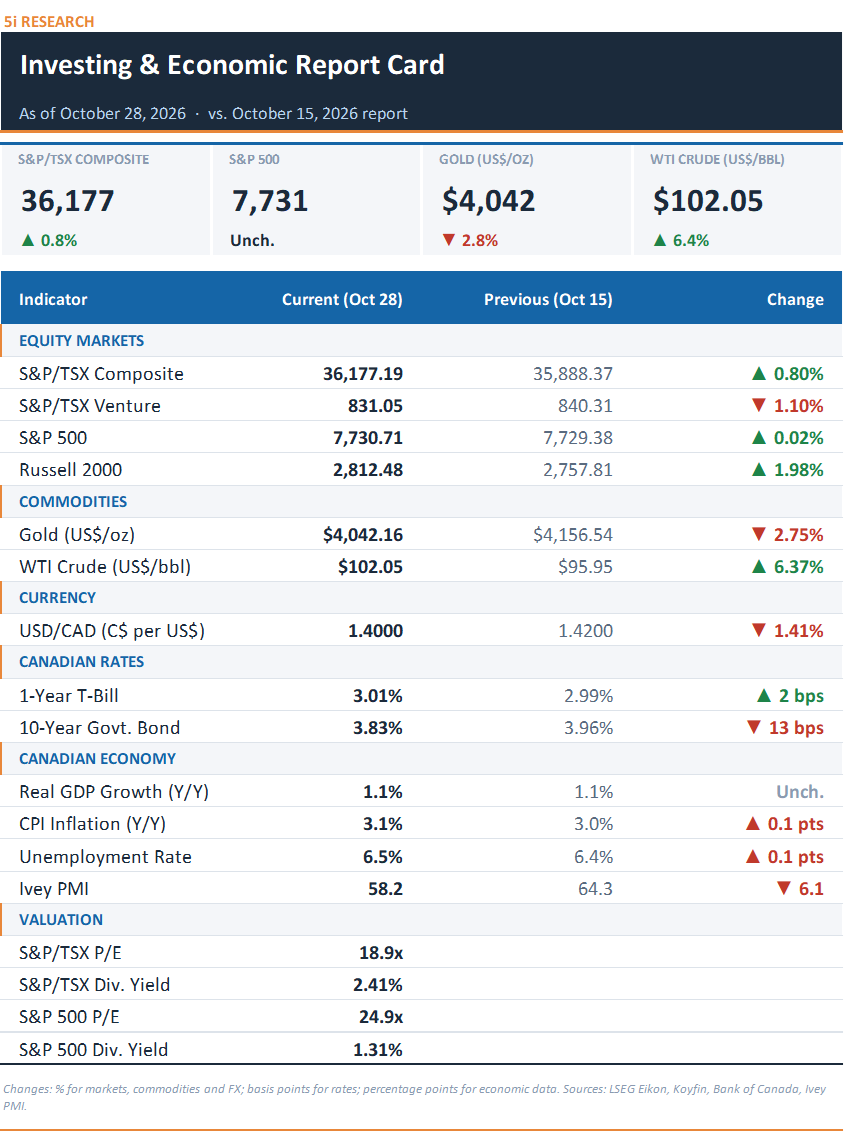
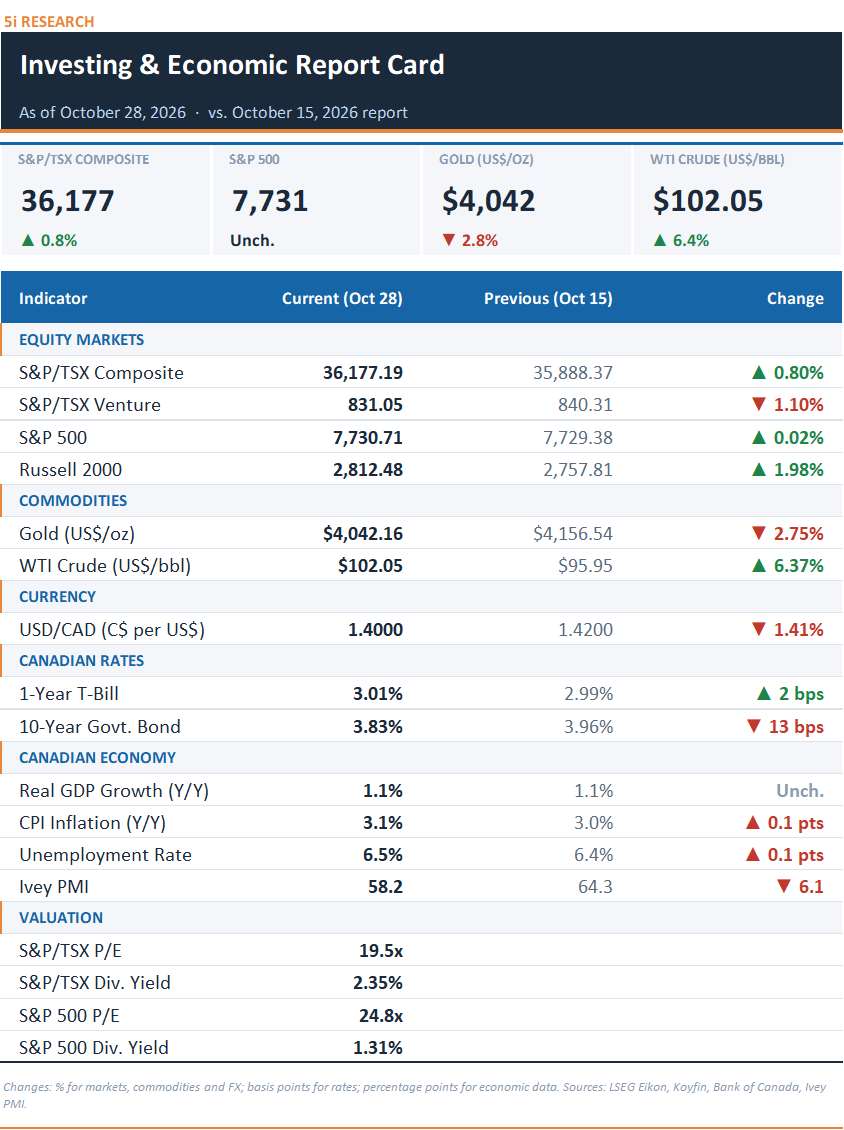
dsf

diff --git a/scripts/build_market_update.py b/scripts/build_market_update.py
@@ -162,6 +162,7 @@ and the email will say there were no changes to the model portfolios.
 Text for this issue's call to action. Links look like [this](https://www.5iresearch.ca).
 
 [button: Button text](https://www.5iresearch.ca)
+[button: Button text](#interactive) links to the tool embedded in this issue's blog post (uses Blog URL)
 """
 
 
@@ -170,7 +171,7 @@ Text for this issue's call to action. Links look like [this](https://www.5iresea
 # Set by main(): where issue.md images live and where they'll be hosted.
 ISSUE = {"folder": "", "build_dir": "", "img_prefix": "", "images": [], "warnings": [], "blog_url": ""}
 MD_IMAGE = r"!\[([^\]]*)\]\(([^)]+)\)"
-MD_BUTTON = r"\[button:\s*(.+?)\]\((https?://[^)\s]+)\)"
+MD_BUTTON = r"\[button:\s*(.+?)\]\(((?:https?://|#)[^)\s]+)\)"  # "#interactive" = that spot in this blog post
 
 
 def issue_image_src(src):
@@ -231,7 +232,12 @@ def md_blocks(text):
         m = re.fullmatch(MD_BUTTON, " ".join(lines))
         fig = re.fullmatch(MD_IMAGE, " ".join(lines))
         if m:
-            out.append(button(m.group(2), html.escape(m.group(1), quote=False), BLUE))
+            url = m.group(2)
+            if url.startswith("#"):
+                if not ISSUE["blog_url"]:
+                    ISSUE["warnings"].append(f"Add 'Blog URL:' to issue.md so the '{m.group(1)}' button can link to the blog.")
+                url = ISSUE["blog_url"] + url
+            out.append(button(url, html.escape(m.group(1), quote=False), BLUE))
         elif fig:
             src = issue_image_src(fig.group(2))
             if src:
